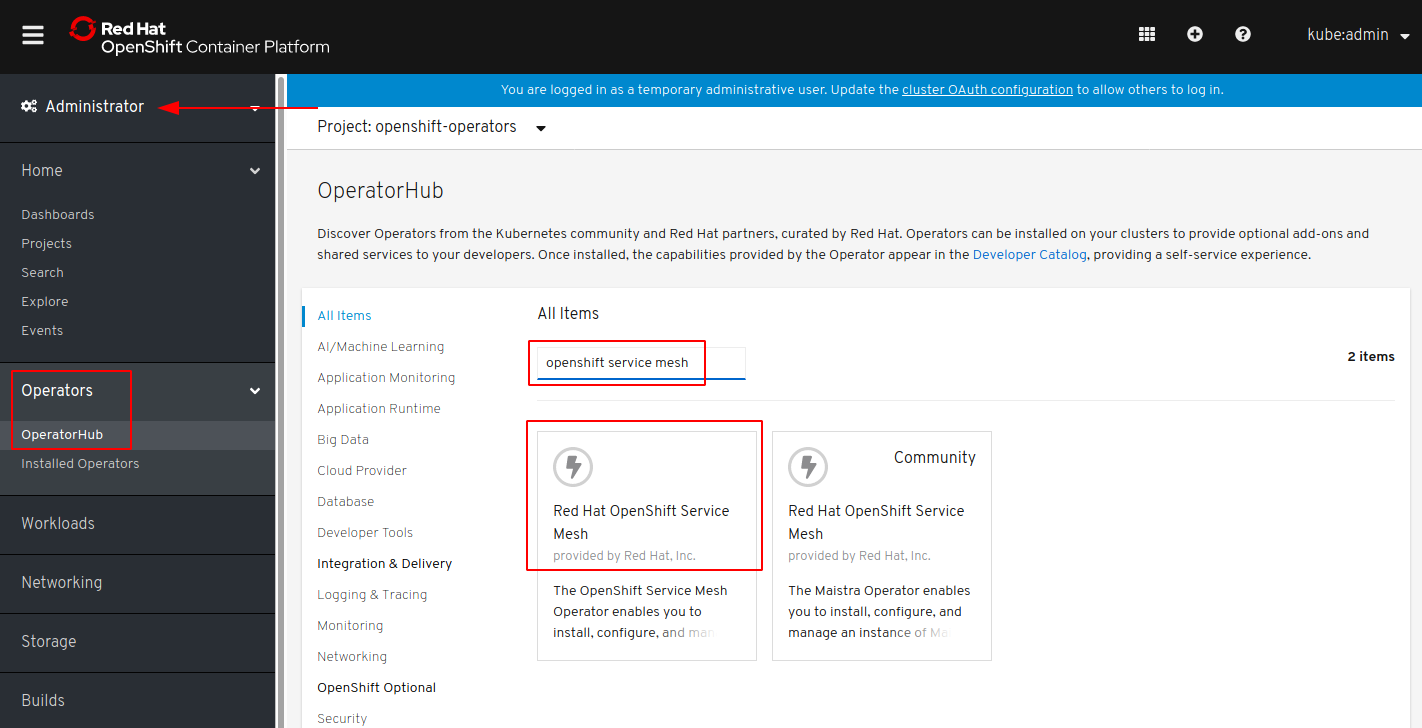
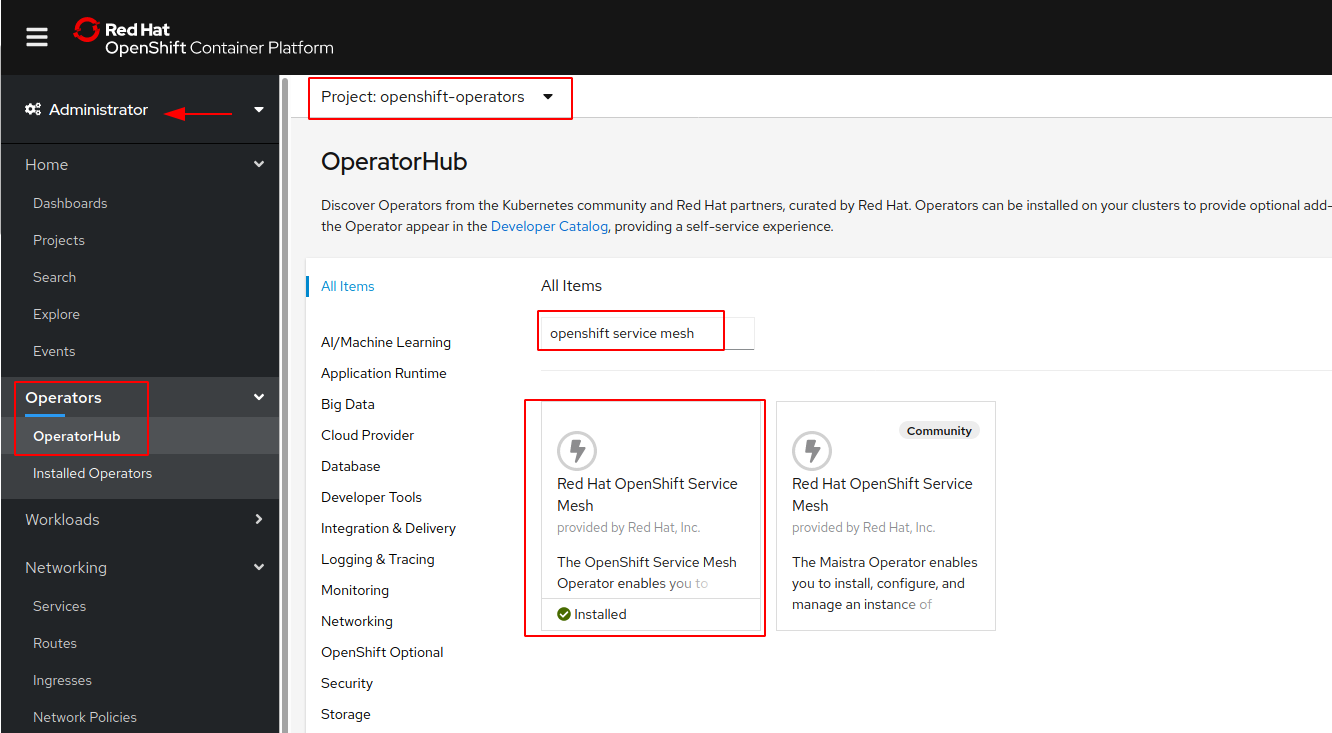
Update for OpenShift 4.3

diff --git a/web-app-vuejs/src/store.js b/web-app-vuejs/src/store.js
@@ -7,7 +7,7 @@ export default new Vuex.Store({
   state: {
     authenticationEnabled: "authentication-enabled-no", // use "authentication-enabled-yes" to turn it on
     endpoints: {
-      api: "http://istio-ingressgateway-istio-system.apps-crc.testing/web-api/v1/", // example: "http://192.168.99.100:31380/web-api/v1/"
+      api: "http://istio-ingressgateway-istio-system.harald-uebele-os4fra-162e406f043e20da9b0ef0731954a894-0000.eu-de.containers.appdomain.cloud/web-api/v1/", // example: "http://192.168.99.100:31380/web-api/v1/"
       login: "http://endpoint-login-ip:endpoint-login-port/login" // example: "http://localhost:3000/login"
     },
     user: {

diff --git a/documentation/OS4Cluster.md b/documentation/OS4Cluster.md
@@ -1,12 +1,12 @@
 # Get Access to an OpenShift 4 Cluster
 
-At the time of this writing, OpenShift 4.2 is the latest release of Red Hat's OpenShift Kubernetes distribution. This is a Red Hat licensed product, it is not available as free download. (There is an OKD 4.3 preview but I won't cover that.)
+At the time of this writing, OpenShift 4.3 is the latest release of Red Hat's OpenShift Kubernetes distribution. This is a Red Hat licensed product, it is not available as free download. (There is an OKD 4.3 preview but I won't cover that.)
 
 Here are two options to get access to OpenShift:
 
 ## Option 1: CloudReady Containers (CRC)
 
-This option allows to run OpenShift 4.2 on your own laptop **without purchasing an OpenShift license**. It is called CodeReady Containers (`crc`) and is the 'official' successor to MiniShift.
+This option allows to run OpenShift 4.3 on your own laptop **without purchasing an OpenShift license**. It is called CodeReady Containers (`crc`) and is the 'official' successor to MiniShift.
 
 CRC is available for Mac, Linux, and Windows 10, and it uses native virtualization to run OpenShift, namely Hyperkit for Mac, Hyper-V for Windows, and KVM for Linux. 
 
@@ -14,24 +14,27 @@ These instructions have been tested with CRC version 1.4.0 (which includes OpenS
 
 Red Hat supports CRC on Windows 10 Pro and Home (with Fall Creator's Update), and on the Linux side it is only supported officially on Red Hat Enterprise Linux, CentOS, and current versions of Fedora. Users of Ubuntu and other Linux distributions currently may have to perform additional configuration on their machines. This is due to different approaches in network name resulution (dnsmasq vs systemd-resolved). You can find information on [CRC Github Issues](https://github.com/code-ready/crc/issues). Hopefully this will be fixed in the future.
 
-**To install CRC follow the official documentation [here](https://cloud.redhat.com/openshift/install/crc/installer-provisioned).**
+**Start with the official CRC installation documentation [here](https://cloud.redhat.com/openshift/install/crc/installer-provisioned).**
 
-You need a Red Hat account to access this page, and you can register for an account directly on this page if you do not already have one. Its free and you won't be able to install CRC without an account.
+You need a Red Hat account to access this page, and you can register for an account directly on this page if you do not already have one. Its free and you won't be able to install CRC without this account.
 
 When you sign on to this page, you get access to the official documentation, the download links for the `crc` binaries, **and to the 'Pull Secret' and this is the reason to go through this page because the Pull Secret is personalized to your Red Hat account**.
 
 Once you obtained the binary for your operating system and your pull secret, you can follow the CRC [Getting Started Guide](https://code-ready.github.io/crc/) or a blog I wrote about running [Red Hat OpenShift 4 on your laptop](https://haralduebele.blog/2019/09/13/red-hat-openshift-4-on-your-laptop/). 
 
-The default setup of CRC requires:
+The default setup of CRC requires at least:
 
 * 4 virtual CPUs
 * 8 GB RAM
 * 35 GB disk space for the virtual disk
 
-It creates a virtual machine (VM) with those specifications to run OpenShift on your workstation.
+It creates a virtual machine (VM) with those specifications to run OpenShift 4 on your workstation.
 
-On current Intel (i5, i7) and AMD CPUs, 2 virtual CPUs are equal to 1 physical core. 8 GB of RAM allow to start OpenShift but are not sufficient especially when you install Istio. 16 GB of RAM will work. 
-Be aware that you still need resources not reserved by CRC to run the OS of your workstation. That means you won't be able to use CRC on a smaller (older) machine! 
+- On current Intel (i5, i7) and AMD CPUs, 2 virtual CPUs = 1 physical core. 
+- 8 GB of RAM will allow to start OpenShift but are not sufficient especially when you install Istio. 
+- 16 GB of RAM will work. 
+
+Be aware that you still need resources not reserved by CRC to run the OS of your workstation! That means you won't be able to use CRC on a smaller (older) machine! 
 Also note that you cannot change the configuration (CPUs, RAM) once you started CRC for the first time. You will need to delete and restart it to create the VM running the OpenShift cluster with new specifications.
 
 The binaries are updated about once per month and previous to CRC version 1.2 you had to delete and reinstall your cluster every month due to expired certificates. Starting with version 1.2 CRC can renew the certificates and keep running. You may still want to update it from time to time since newer versions typically contain newer versions of OpenShift including bug fixes. Update means you delete your cluster and start fresh with a newer version of CRC!
@@ -52,9 +55,20 @@ The binaries are updated about once per month and previous to CRC version 1.2 yo
 `crc stop` shuts down OpenShift and the VM it is running in.
 
 
-## Option 2: Red Hat OpenShift on IBM Cloud
+## Option 2: Red Hat OpenShift 4.3 on IBM Cloud
 
-Currently not available. I will update this section as soon as it is available (as public beta) to everyone.
+Red Hat OpenShift 4.3 is currently (March 2020) available in a public beta. You require a PAYG or other paid IBM Cloud Account to create a cluster, though. There is no free or test OpenShift cluster available on IBM Cloud. During workshops we will give you access to clusters paid by IBM.
+
+To create an OpenShift cluster on the IBM Cloud, log on to the IBM Cloud and go to the Catalog:
+
+1. Click on "Red Hat OpenShift on IBM Cloud" (located in the Containers section)
+2. Select "Single zone" under Location, select a Geography, and a Worker zone (data center)
+3. Select OpenShift Version 4.3.1 or whatever 4.3 version currently is available
+4. Select a flavor for your worker node(s), b3c.4x16 virtual shared is fine
+5. Reduce the number of Worker nodes to 1 (sufficient for this exercise)
+6. Note the Order summary and total estimated monthly costs in the upper right corner!
+7. Click Create only if you are willing to order a paid cluster!
+
 
 ---
 

diff --git a/documentation/OS4Requirements.md b/documentation/OS4Requirements.md
@@ -59,13 +59,21 @@ $ docker run -v $ROOT_FOLDER/:/cloud-native-starter -it --rm tsuedbroecker/cns-w
 
    ![OS4 local.env](../images/os4-localenv.png)
 
-## Access the OpenShift Internal Image Repository
+## Access the OpenShift Internal Image Registry
 
 The container images for applications deployed on Kubernetes/OpenShift must be stored in a place where they can be accessed during the rollout of an application. This can be Docker Hub, the IBM Container Registry, Quay.io, or any other repository on the Internet you have access to. It can also be the image repository deployed within OpenShift.
 
-For this project we will use the OpenShift internal repository. We will build our images locally on your workstation, then tag them with a name for the internal repository, and then push them into the internal repository. Logon to the repository is not sufficient, though. The `docker` CLI will refuse to connect with a x509 error about an unknown certificate.
+For this project we will use the OpenShift internal repository. We will build our images locally on your workstation, then tag them with a name for the internal repository, and then push them into the internal repository. 
 
-First, we have to obtain the CA certificate from OpenShift.
+**Accessing the Image Registry is different for CRC or OpenShift on IBM Cloud! Continue with section A or B depending on your environment.**
+
+### A. Access OpenShift Image Registry of CRC with `docker` CLI
+
+**Note:** This section applies to CRC only!
+
+Simply logging on to the Registry is not possible with CRC. The `docker` CLI will refuse to connect with a x509 error about an unknown certificate because in CRC the certificate is self-signed.
+
+#### Obtain the CA certificate from OpenShift.
 
 Execute these commands, they require that you created the local.env file in the previous step:
 
@@ -121,33 +129,70 @@ If you are running everything locally on Windows please note: I have no access t
 
 I believe that step "1. Get necessary CA certificate" is equivalent to 'oc extract secret/router-ca --keys=tls.crt -n openshift-ingress-operator' in the instructions above. 
 
-## Access OpenShift image repository with `docker` CLI
+#### Obtain the Image Registry URL
 
-1. In the OpenShift Web Console, go to 'Administrator', 'Home', 'Projects'. 
-2. Search for and open project 'openshift-image-registry'.
-3. Go to the 'Workloads' tab.
-4. Click on 'image-registry' in the list
-5. Open the 'Resources' tab
-6. Copy the location of the default route
+1. Enter the following command:
 
-![os-image-registry](../images/os-image-registry.png)
+    ```
+    $ oc get route default-route -n openshift-image-registry --template='{{ .spec.host }}
+    ``
 
-Paste the default route URL into REGISTRYURL in local.env **but omit the 'https://' part, also no trailing '/'**:
+2. Copy and paste the default route URL into REGISTRYURL in local.env:
 
-```
-REGISTRYURL=default-route-openshift-image-registry.apps-crc.testing
-```
+    ```
+    REGISTRYURL=default-route-openshift-image-registry.apps-crc.testing
+    ```
 
-Don't forget to save local.env!
+    Don't forget to save local.env!
 
-Now test the access:
+### B. Access OpenShift Image Registry with docker CLI on the IBM Cloud
+
+**Note:** This section applies to OpenShift on IBM Cloud only!
+
+OpenShift on the IBM Cloud uses Let's Encrypt cerificates which are automatically trusted by your browser and the `docker` CLI. This makes accessing the Registry a lot simpler.
+
+The following information can be found in the [OpenShift 4.3 documentation](https://docs.openshift.com/container-platform/4.3/registry/securing-exposing-registry.html#registry-exposing-secure-registry-manually_securing-exposing-registry).
+
+1. In the command line expose the registry using 'DefaultRoute':
+
+    ```
+    $ oc patch configs.imageregistry.operator.openshift.io/cluster --patch '{"spec":{"defaultRoute":true}}' --type=merge
+    ```
+
+2. Get the URL of the route:
+
+    ```
+    $ oc get route default-route -n openshift-image-registry --template='{{ .spec.host }}'
+    ```
+
+    The URL looks like this:
+
+    ```
+    default-route-openshift-image-registry.harald-uebele-os43-1234567890-0000.us-south.containers.appdomain.cloud
+    ```
+
+3. Copy and paste the default route URL into REGISTRYURL in local.env and save the file.    
+
+### Test access to the OpenShift Image Registry:
 
 ```
 $ source local.env
-$ docker login -u developer -p $(oc whoami -t) $REGISTRYURL
 ```
 
-This should result in a few warnings and in the end show 'Login Succeeded'.
+For **CRC** test with:
+
+```
+$ docker login -u kubeadmin -p $(oc whoami -t) $REGISTRYURL
+```
+
+For **OpenShift 4.3 on IBM Cloud** test with:
+
+```
+$ docker login -u $(oc whoami) -p $(oc whoami -t) $REGISTRYURL
+```
+
+
+This should result in a few warnings and in the end show '**Login Succeeded**'.
 
 ---
 

diff --git a/documentation/OS4ServiceMesh.md b/documentation/OS4ServiceMesh.md
@@ -14,11 +14,11 @@ You only need to install the OpenShift Service Mesh operator, it will pull in th
 
 Follow these steps:
 
-1. In the OpenShift dashboard, switch to the Adminstrator view, then open Operators and OperatorHub. This will show the OperatorHub catalog (could take a moment):
+1. In the OpenShift dashboard, switch to the Adminstrator view, then open Operators and OperatorHub. This will show the OperatorHub catalog (could take a moment). Select Project: 'openshift-operators':
 
    ![operatorhub](../images/operatorhub-catalog.png)
 
-2. Enter 'openshift service mesh' in the search field, and select the 'Red Hat OpenShift Service Mesh **provided by Red Hat, Inc**'.
+2. Enter 'openshift service mesh' in the search field, and select the 'Red Hat OpenShift Service Mesh **provided by Red Hat, Inc**', not the "Community" version!
 
 3. Click 'Install' on the next dialog.
 
@@ -61,9 +61,10 @@ In upstream Kubernetes you install (upstream) Istio or its control plane only on
 
    ![istio-system kiali](../images/openshift-is-kiali.png)
 
-   Click on the route, accept the self-signed certificate.
-
-   When using CRC, log in with user 'kubeadmin' and the password displayed when you started `crc` or use `crc console --credentials` to redisplay them for you.
+   Click on the route.
+   
+   - When using CRC accept the self-signed certificate. Log in with user 'kubeadmin' and the password displayed when you started CRC or use `crc console --credentials` to redisplay them for you.
+   - On IBM Cloud you will logged in with your IAM credentials automatically.
 
    You should see the Kiali console now.
 

diff --git a/documentation/OS4Deployment.md b/documentation/OS4Deployment.md
@@ -1,6 +1,6 @@
-# Running the Cloud Native Starter on OpenShift 4.2
+# Running the Cloud Native Starter on OpenShift 4.3
 
-Before you start with the actual Cloud Native Starter project on OpenShift you must go through all of these 3 documents:
+Before you start with the actual Cloud Native Starter project on OpenShift **you must go through all of these 3 documents**:
 
 1. [Get access to an OpenShift cluster](OS4Cluster.md)
 2. [Installing Istio aka Service Mesh on your OpenShift cluster](OS4ServiceMesh.md)
@@ -9,7 +9,7 @@ Before you start with the actual Cloud Native Starter project on OpenShift you m
 
 To following commands deploy the base project.
 
-**Note:** If you get an error "The token provided is invalid or expired" then the value for APITOKEN in file local.env is no longer valid. This typically happens when you restart CRC. Follow the instructions to obtain the API token in [Requirements for Cloud Native Starter on OpenShift](https://github.com/IBM/cloud-native-starter/blob/master/documentation/OS4Requirements.md#access-openshift-via-cli) in section "Access OpenShift via CLI". 
+**Note:** If you get an error "The token provided is invalid or expired" then the value for APITOKEN in file local.env is no longer valid. This typically happens when you use CRC and restart it. Follow the instructions to obtain the API token in [Requirements for Cloud Native Starter on OpenShift](https://github.com/IBM/cloud-native-starter/blob/master/documentation/OS4Requirements.md#access-openshift-via-cli) in section "Access OpenShift via CLI". 
 
 
 ```
